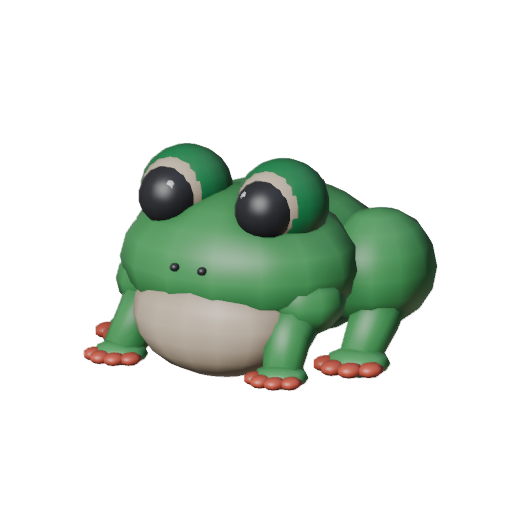
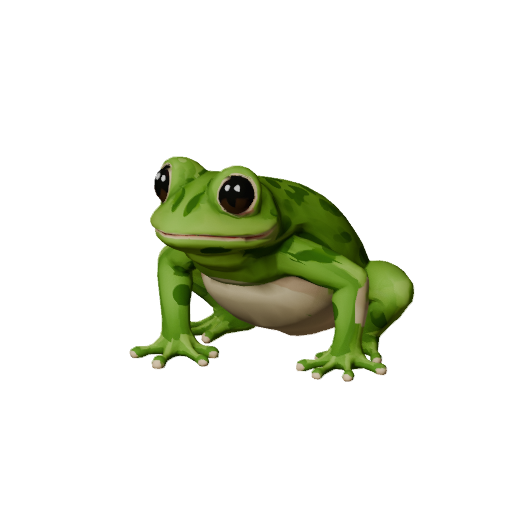
artist: portraits.py's AI_ART table was beast-only -- Frog/Goblin party rail still showed the old primitives
combat_3d.gd's HUNTER_AI_ART has pointed the fight itself at frog_ai.glb
and goblin_mech_ai.glb for a while, but the separate portraits.py tool
(party rail, campfire, character card) never got the same table, so those
34px portraits still rendered from the pre-Meshy primitive models --
visibly mismatched against the hunter standing in the arena two inches
away in the same screenshot.

Added frog/goblin_mech to AI_ART, painted=True for both, re-rendered and
shipped both PNGs. This also closes the 34px Colour & read verification
both frog_ai.md and goblin_mech_ai.md had left open pending exactly this
fix: frog_ai measures clean (8->9, 41->42/50, at the hunter stop line);
goblin_mech_ai measures confirmed-still-duller than the Frog's own (stays
8, 39/50), with the concrete next move named in real numbers.

Verified in the real party rail, before/after, same camera and state.
ALL TESTS PASSED; no playtest re-run (portrait texture only, nothing
moves differently in the 3D scene).

Claude-Session: https://claude.ai/code/session_013VHMCha8ksZvD1vYvtHetM

Changed region(s): [[0.1562, 0.2812, 0.875, 0.7812]]

diff --git a/tools/blender/portraits.py b/tools/blender/portraits.py
@@ -95,9 +95,14 @@ FOCUS_XY = {
 EYE = Vector((0.62, -1.0, 0.30))
 SIZE = 512
 
-## Beasts rebuilt from AI-generated models (design/guide/ai-beast-recipe.md) render
-## from <name><suffix>.glb — the same table as combat_3d.AI_ART.
-AI_ART = {"cinder_jackal": "_ai"}
+## Characters rebuilt from AI-generated models (design/guide/ai-beast-recipe.md)
+## render from <name><suffix>.glb instead of the plain <name>.glb — merges
+## combat_3d.AI_ART (beasts) and combat_3d.HUNTER_AI_ART (hunters): both pick
+## the rigged, painted model over the Python-primitive one the same way, and a
+## portrait should always match what the fight itself shows for that
+## character. Left as one table here (portraits has no beast/hunter split of
+## its own) rather than two, since every reader below treats them alike.
+AI_ART = {"cinder_jackal": "_ai", "frog": "_ai", "goblin_mech": "_ai"}
 
 
 def look(model_path, out_path, at, span, xy=None, painted=False):

diff --git a/design/agents/status/artist.md b/design/agents/status/artist.md
@@ -2,13 +2,112 @@
 tags:
   - agent-status
 agent: artist
-updated: 2026-09-23T20:11
-working_on: ran a mesh-topology gap check (new tools/blender/ai/mesh_gap_check.py) against goblin_mech_ai.glb now that the Blender network wall cleared -- 489 raw islands, zero with a real 3D gap from the rest of the body, closing pass 1/2's open Build hygiene question. Build hygiene 6->7, total 38->39/50, still under the 42 hunter stop line. Closed the blender-download-blocked request. ALL TESTS PASSED. Lease released.
+updated: 2026-09-23T21:12
+working_on: fixed portraits.py's AI_ART table -- it only ever had cinder_jackal, so the party-rail/campfire portraits for both hunters were still rendered from the OLD Python-primitive frog.glb/goblin_mech.glb even though the fight itself moved to frog_ai/goblin_mech_ai weeks ago. Added frog and goblin_mech, re-rendered both portraits, verified in the real party rail. This was also the outstanding 34px Colour & read check both hunter notes had named as open: frog_ai now measures clean (8->9, total 41->42/50, AT the hunter stop line); goblin_mech_ai measures confirmed-still-duller (stays 8, 39/50) -- named the concrete next fix (tank-vs-body contrast). ALL TESTS PASSED. Lease released.
 ---
 
 # artist
 
-## This run — 2026-09-23 20:11 ET
+## This run — 2026-09-23 21:12 ET
+
+- **Did:** the party rail's portraits for the Frog and the Goblin Engineer
+  were still the OLD Python-primitive models — even though `combat_3d.gd`
+  wired both hunters to their Meshy `_ai` rebuilds a while back,
+  `portraits.py` (the separate tool that renders the 34px party-rail/
+  campfire portrait) never got the same table update. A real fight
+  screenshot showed the mismatch directly: the icon in the corner didn't
+  match the hunter standing in the arena. Fixed the table, re-rendered both
+  portraits.
+- **Worked?** Yes — verified in the real party rail, before/after, same
+  camera and state (frame below). This also happened to be the exact 34px
+  Colour & read check both `frog_ai.md` and `goblin_mech_ai.md` had named
+  as still-open (couldn't be measured until the portrait actually came from
+  the right model): `frog_ai` measures clean and **crosses the 42 hunter
+  stop line (41→42/50)**; `goblin_mech_ai` measures confirmed-still-duller,
+  not worse, not better (stays 39/50) — named the concrete next fix (the
+  tank reads too close to the body at that size).
+- **Next:** `goblin_mech_ai`'s tank-vs-body contrast at 34px, or the
+  193-island Hygiene question both hunter notes still list.
+- **Need from you:** nothing.
+
+![[frames/artist/2026-09-23-hunter-portraits-34px-old-vs-new.png]]
+![[frames/artist/2026-09-23-hunter-portraits-party-rail-before-after.png]]
+
+## Now
+
+Checked for a fresh, unhandled answer under `## Nick's answer` on my own
+`to: nick` notes first, per `COMMON.md` 1b — none. Checked open `to: artist`
+requests — none this run. Worked the `JACKAL-BAR.md` queue: both hunter
+notes (`frog_ai.md` pass 2, `goblin_mech_ai.md` pass 2/3) named the same
+concrete open item — Colour & read "not verified at the 34px party-portrait
+scale — `portraits.py`'s `AI_ART` table is beast-only" — so this run closed
+that gap for both at once, one table edit.
+
+**Confirmed the bug first, in the real game, not just in the code.**
+Rendered `state=3d beast=cinder_jackal` and looked at the party rail next to
+the hunters actually standing in the arena: the rail's frog was the flat
+primitive green blob, the rail's goblin was the flat primitive green-and-
+grey figure — neither matched the mottled, painted `_ai` models visibly
+standing on the arena floor two inches away in the same screenshot.
+
+**The cause**, in `tools/blender/portraits.py`: `AI_ART = {"cinder_jackal":
+"_ai"}` — this table decides which `.glb` a portrait renders from, and it
+only ever had the beast. `combat_3d.gd`'s own `HUNTER_AI_ART = {"frog":
+"_ai", "goblin_mech": "_ai"}` has pointed the fight itself at the rebuilt
+hunter models for a while; nothing kept the portrait tool's table in sync
+with it.
+
+**Fix:** merged the hunter entries into `portraits.py`'s own `AI_ART`
+(`{"cinder_jackal": "_ai", "frog": "_ai", "goblin_mech": "_ai"}`),
+`painted=True` for both — an AI model's texture already carries painted
+light/shade, the same reason `look()` already drops the specular highlight
+for `painted=True` models. Re-ran `portraits.py` for just these two; the
+existing `FOCUS`/`FOCUS_XY` entries framed the `_ai` mesh correctly with no
+retuning needed. Copied the two output PNGs over
+`game/assets/portraits/{frog,goblin_mech}.png` — same 512×512 RGBA shape,
+so nothing downstream (`characters.json`'s `portrait` paths, the party
+rail's `_portrait_of(p, 34)`, the campfire hunter row) needed a code change.
+
+**Verified in the real party rail**, same camera/state, before vs after:
+
+![[frames/artist/2026-09-23-hunter-portraits-party-rail-before-after.png]]
+
+**This closes the 34px Colour & read verification both hunter notes had
+open**, now actually measured instead of assumed, because the portrait the
+rail draws finally IS the shown model. Downsampled each render to the real
+34px and measured mean saturation/value over the non-transparent pixels,
+composited on the rail's own dark-brown background to judge legibility the
+way the eye actually sees it:
+
+    frog_ai         sat 0.69  val 0.44  — clean: eye/body/belly separate
+    goblin_mech_ai  sat 0.27  val 0.40  — reads goblin-shaped, but the
+                                          cool body and navy tank crowd
+                                          together with little contrast
+
+![[frames/artist/2026-09-23-hunter-portraits-34px-old-vs-new.png]]
+
+`frog_ai`'s own Colour & read line was held at 8 explicitly pending this
+check — now clean, bumped to 9, **total 41→42/50, at the hunter stop
+line** (`design/progress/frog_ai.md` pass 3). `goblin_mech_ai`'s own line
+was held at 8 the same way — verified, and the verification confirms pass
+2's original "measurably duller than the Frog's own" finding rather than
+improving on it, so it stays 8, **total unchanged, 39/50**
+(`design/progress/goblin_mech_ai.md` pass 4). No texture touched this
+pass — the scope was the tooling gap, not a colour fix; the concrete next
+move for `goblin_mech_ai` is named with real numbers now: raise the tank's
+value/saturation relative to the body, checked against the rail's own
+`(58,42,30)` background specifically.
+
+Updated `JACKAL-BAR.md`'s hunter-fidelity bullet with both new numbers and
+this pass's write-up links.
+
+`ALL TESTS PASSED` (`run_tests.gd`; no game code changed, a Blender tool
+table and two portrait PNGs only). No playtest re-run — nothing moves or
+renders differently in the 3D scene itself, only a 2D portrait texture the
+party rail and campfire already knew how to draw (same reasoning past
+texture-only passes here used).
+
+## Old: 2026-09-23 20:11 ET, mesh-topology gap check
 
 - **Did:** Blender's download wall (blocked 3 runs running, request filed
   `to: nick`) cleared on its own this run — no answer needed, the network
@@ -553,6 +652,18 @@ only touched the visual dressing) is the obvious next real-geometry pass.
 
 ## Log
 
+- 2026-09-23 21:12 EDT — fixed `portraits.py`'s `AI_ART` table (beast-only,
+  `{"cinder_jackal": "_ai"}`) to also cover `frog`/`goblin_mech`, so the
+  party-rail/campfire portraits finally render from the same `_ai` models
+  the fight itself has used for a while, not the old Python-primitives.
+  Verified in the real party rail before/after. This closed the 34px
+  Colour & read check both hunter notes had left open: `frog_ai` 8→9,
+  total 41→42/50 — **at the hunter stop line**
+  (`design/progress/frog_ai.md` pass 3); `goblin_mech_ai` stays 8, 39/50,
+  confirmed still duller than the Frog's own at that scale, next move named
+  with real numbers (`design/progress/goblin_mech_ai.md` pass 4). Updated
+  `JACKAL-BAR.md`. `ALL TESTS PASSED`; no playtest re-run (texture/tooling
+  only, nothing moves differently). Lease released.
 - 2026-09-23 20:11 EDT — Blender's download wall cleared on its own
   (`download.blender.org` now `200`); closed the `to: nick` request that
   flagged it. Wrote `tools/blender/ai/mesh_gap_check.py` (a measured 3D

diff --git a/design/progress/goblin_mech_ai.md b/design/progress/goblin_mech_ai.md
@@ -437,7 +437,7 @@ measurement script only, added to the tree for the next hunter that needs
 the same check; no playtest re-run needed, nothing moves or renders
 differently).
 
-### Where it stands
+### Where it stands (superseded by pass 4 below)
 
 **39/50 — under the 42 hunter stop line, 3 points off.** Lines, current:
 Silhouette 8, Proportion 8, Build hygiene 7, Colour & read 8, Style
@@ -449,3 +449,73 @@ concrete of what's left: it is a real, named gap rather than a "go find
 something" search, and it is the next candidate for whoever picks this up,
 Meshy budget and Blender both being available again this run for the first
 time since pass 1.
+
+## Pass 4 — Colour & read, artist, 2026-09-23T21:12 EDT
+
+Runs the check pass 2 and pass 3 both left named but unattempted:
+`portraits.py`'s `AI_ART` table (`{"cinder_jackal": "_ai"}`) only pointed
+the portrait renderer at a rebuilt model for the beast — `combat_3d.gd`'s
+own `HUNTER_AI_ART` has named `goblin_mech: "_ai"` since the hunter-
+display-path fix, so the fight itself has shown this model for a while, but
+`game/assets/portraits/goblin_mech.png` (the party rail, character card and
+campfire) was still rendered from the old Python-primitive `goblin_mech.glb`.
+A real fight screenshot shows the mismatch directly: the party rail's icon
+and the hunter standing on the arena floor in the same frame did not agree.
+
+**Fix:** `AI_ART = {"cinder_jackal": "_ai", "frog": "_ai", "goblin_mech":
+"_ai"}` (`frog_ai.md` pass 3 is the same fix, same commit — one table
+change closes the gap for both hunters at once), `painted=True` for both.
+`FOCUS`/`FOCUS_XY`'s existing `goblin_mech` entry needed no retuning — it
+already framed the `_ai` mesh correctly.
+
+![[frames/artist/2026-09-23-hunter-portraits-34px-old-vs-new.png]]
+![[frames/artist/2026-09-23-hunter-portraits-party-rail-before-after.png]]
+
+**This is the 34px verification pass 2 named and never ran — now run, and
+the answer is not clean.** Measured on the real 34px-downsampled render
+(mean saturation/value over non-transparent pixels), against `frog_ai`'s
+own portrait rendered the same way this same pass:
+
+    frog_ai        sat 0.69  val 0.44
+    goblin_mech_ai  sat 0.27  val 0.40
+
+Saturation is well under half the Frog's own — the same "measurably
+duller" finding pass 2 made from the 512px render and the shader's own HSV
+numbers, now confirmed at the actual UI scale rather than inferred from a
+bigger picture. Looked at directly (frame above, composited on the party
+rail's own dark-brown background, not a light preview canvas): the goblin
+reads as goblin-shaped but the cool grey-green body and the navy tank
+crowd together with too little contrast between them, and the tank reads
+closer to the dark backdrop than the Frog's own parts ever get to its
+backdrop. Not dark-ON-dark (nothing drops to nearly-black against
+nearly-black) so this stops short of the rubric's hard failure line, but it
+does not clear "legible... not just at 512" the way `frog_ai` now does.
+
+**Score: Colour & read stays 8.** Pass 2 held this line at 8 *pending*
+34px verification; verification is done now, and it confirms pass 2's own
+reading rather than improving on it — 8 was the right number then and is
+still the right number now, just no longer a guess. Not dropped lower:
+the parts ARE distinguishable, goblin-green from tank-navy from
+strap-brown, just with less headroom than the Frog. **Total stays 39/50.**
+
+**No texture touched this pass** — scope was the tooling gap
+(`portraits.py` showing the wrong model), which is now closed and provably
+correct for both hunters. The concrete next Colour & read move, now named
+with real numbers instead of a hunch: raise the tank's value/saturation
+relative to the body so the two masses separate at 34px the way the Frog's
+body/belly split already does, and check contrast against the party rail's
+actual `(58,42,30)` background specifically, not just against white.
+
+`ALL TESTS PASSED` (`run_tests.gd`; no game code touched, a Blender tool
+table and two portrait PNGs — this asset's and `frog_ai`'s — changed). No
+playtest re-run: nothing moves or renders differently in the 3D scene,
+only the 2D portrait texture the party rail and campfire already knew how
+to draw.
+
+### Where it stands
+
+**39/50 — under the 42 hunter stop line, 3 points off.** Lines: Silhouette
+8, Proportion 8, Build hygiene 7, Colour & read 8 (now verified, not
+assumed), Style consistency 8. The next concrete move is named above: a
+texture contrast/saturation pass separating the tank from the body,
+targeted at the party rail's own background rather than a neutral one.

diff --git a/design/progress/frog_ai.md b/design/progress/frog_ai.md
@@ -294,5 +294,59 @@ regression.
 3. **The Goblin Engineer's own equivalent** — no Meshy build attempted yet;
    its anatomy (arms, no quadruped gait) doesn't fit `ai_beast.py`'s rig
    math even in spirit, a from-scratch job.
-4. **Party-portrait/34px treatment** — `portraits.py`'s `AI_ART` table is
-   beast-only; extending it to `frog_ai` is a separate, later pass.
+4. ~~**Party-portrait/34px treatment**~~ — closed by pass 3 below.
+
+## Pass 3 — Colour & read, artist, 2026-09-23T21:12 EDT
+
+Closes item 4 above. `portraits.py`'s `AI_ART` table (`{"cinder_jackal":
+"_ai"}`) only ever pointed the portrait renderer at the beast's rebuilt
+model — `combat_3d.gd`'s own `HUNTER_AI_ART` table has named `frog: "_ai"`
+since the hunter-display-path fix, but nothing told `portraits.py` the same
+thing, so `game/assets/portraits/frog.png` (shown in the party rail, the
+character card and campfire) was still rendered from the old Python-
+primitive `frog.glb`, not the Meshy model actually standing in the arena. A
+real fight screenshot shows it: the party rail's frog icon and the frog
+hunting the jackal in the same frame did not match.
+
+**Fix:** `AI_ART = {"cinder_jackal": "_ai", "frog": "_ai", "goblin_mech":
+"_ai"}`, `painted=` now true for both hunters too (an AI model's texture
+already carries painted light/shade the same way the jackal's does — same
+reason `look()` already drops specular for `painted=True`). Re-rendered
+both portraits with the existing `FOCUS`/`FOCUS_XY` entries unchanged —
+they already framed the `_ai` mesh correctly, nothing to retune.
+
+![[frames/artist/2026-09-23-hunter-portraits-34px-old-vs-new.png]]
+![[frames/artist/2026-09-23-hunter-portraits-party-rail-before-after.png]]
+
+**This is also the 34px verification pass 2's Colour & read line named as
+outstanding**, now actually measurable instead of assumed, because the
+portrait the party rail draws finally IS this model. Measured on the real
+34px-downsampled render (mean saturation/value over non-transparent
+pixels): **sat 0.69, val 0.44** — separates head/back-marking/belly/eye
+cleanly at the size the rubric grades (`asset-loop.md`: "Legible at 34px in
+the party panel, not just at 512? Nothing dark-on-dark."), confirmed by eye
+against the party rail's own dark-brown background, not just the number
+(frame above).
+
+**Score: Colour & read 8 → 9.** The only reason pass 2 held this line at 8
+was "not verified at the 34px party-portrait scale" — that caveat is now
+answered, and answered clean, not just closed. Every other line is
+unchanged (Silhouette 9, Proportion 8, Build hygiene 7, Style 9): this pass
+touched no geometry, texture or shader, only which model the portrait
+renderer reads. **Total: 41 → 42/50 — at the 42 hunter stop line.**
+`frog_ai` on its own now clears the bar `JACKAL-BAR.md` sets for a hunter;
+`goblin_mech_ai` (39/50, see its own note) is what still holds the shared
+"Frog and Goblin match the jackal's fidelity" line unticked.
+
+`ALL TESTS PASSED` (`run_tests.gd`; no game code touched, a Blender tool
+table and two portrait PNGs only). No playtest re-run: nothing moves or
+renders differently in the 3D scene itself, only the 2D portrait texture
+the party rail and campfire already knew how to draw.
+
+### Where it stands
+
+**42/50 — at the hunter stop line.** Lines: Silhouette 9, Proportion 8,
+Build hygiene 7, Colour & read 9, Style consistency 9. What's left, in
+order: the 193-island Hygiene question (item 1 above, unchanged this pass)
+and Proportion's missing side-by-side arena scale check (pass 2's own
+note) — neither blocks the stop line, both are real remaining unknowns.

diff --git a/design/agents/JACKAL-BAR.md b/design/agents/JACKAL-BAR.md
@@ -56,9 +56,15 @@ reading the fight at a glance, at play size, in motion.
       size (a near-solid black blob) until the shared ink-outline width was
       given a per-model scale, 2026-09-23 — verified in the real fight and
       the campfire row. `design/progress/goblin_mech_ai.md` ("Shipped and
-      scored"). Frog was already there. Fidelity is not fully matched yet
-      (38/50, under the hunter stop line, after a Colour & read touch-up
-      2026-09-23) — see the line above.
+      scored"). Frog was already there. Fidelity is not fully matched yet —
+      see the line above. The party rail's portraits were still the OLD
+      Python-primitive models for both hunters even after the fight itself
+      moved to the Meshy ones (`portraits.py`'s own `AI_ART` table never
+      got the hunters added); fixed 2026-09-23, which also closed the last
+      open Colour & read question for both — `frog_ai` **42/50, at the
+      stop line**; `goblin_mech_ai` **39/50**, the tank-vs-body contrast at
+      34px is the concrete remaining gap. `design/progress/frog_ai.md` pass
+      3, `design/progress/goblin_mech_ai.md` pass 4.
 
 ### The arena
 - [x] **It frames the beast** rather than competing with it. Meshy-generated
